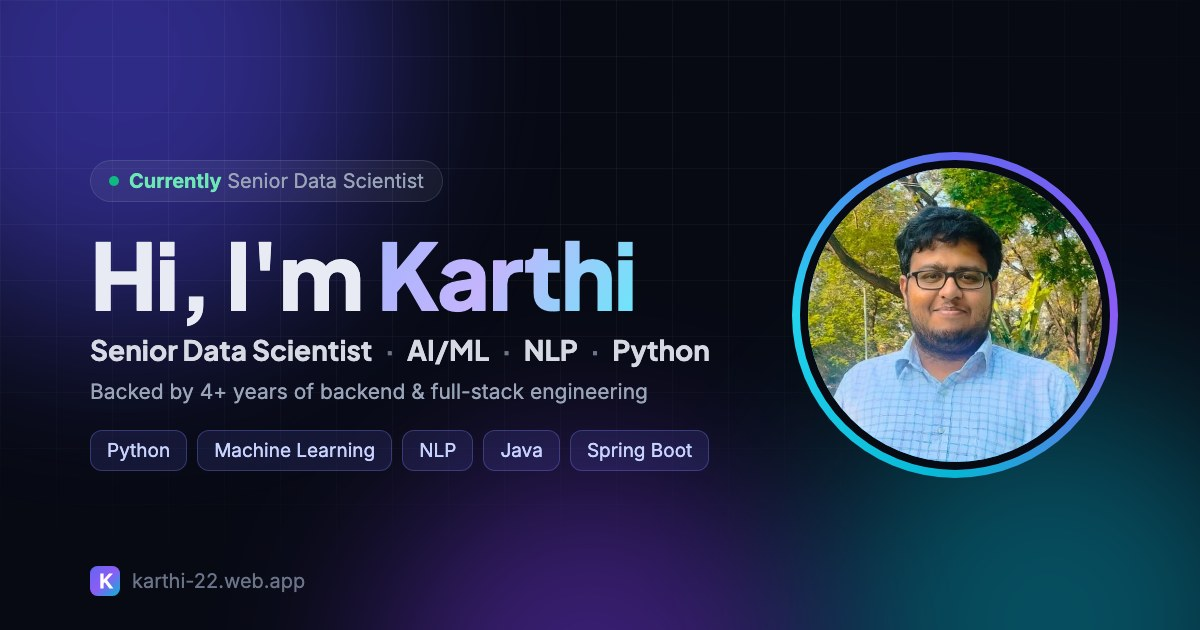
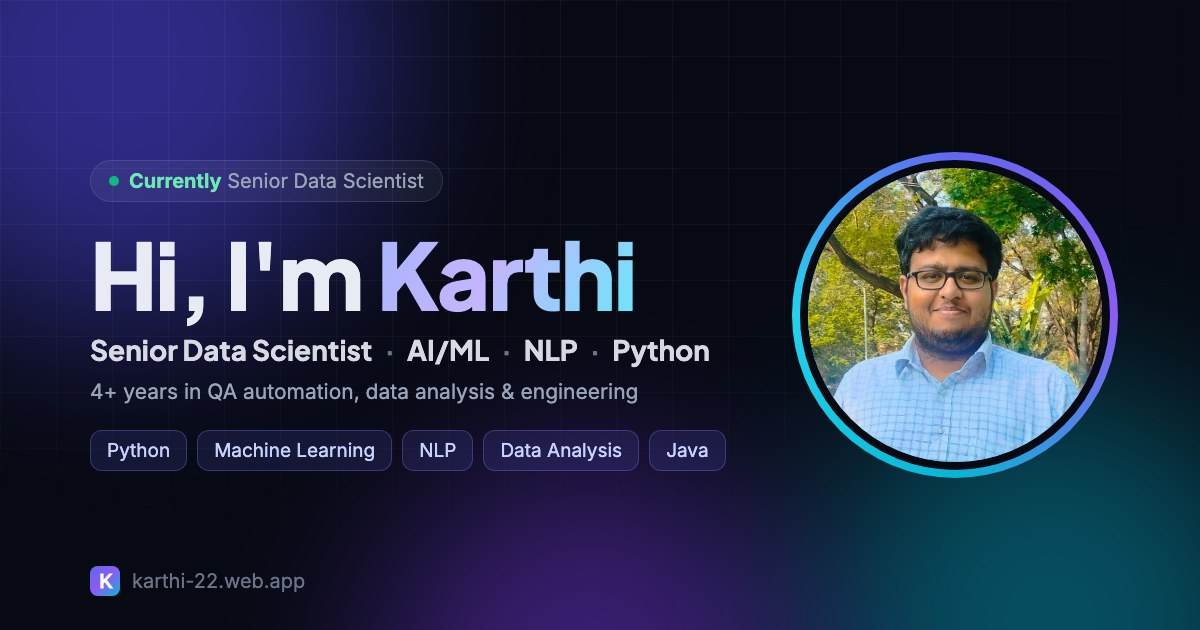
Rewrite About and Home around the real career path
The site claimed 4+ years of building web apps with Java/Spring Boot/
React/Angular; professionally the path was QA & test automation (Zoho),
then Data Analyst -> automation & backend engineering in Java and Python
(AquilaTest), now Senior Data Scientist. Full-stack work is from personal
projects and is now labelled as such.

- Home: accurate intro line; "My path" card (career steps) with
  "Built in my projects" highlights; stat boxes fill the row height
- About: paragraphs on Zoho and AquilaTest, projects framed as outside
  work, data + engineering strengths, updated "Why Hire Me?"
- Meta description, link-preview text and image, structured data,
  README updated to match

Changed region(s): [[0.0617, 0.6032, 0.555, 0.6333], [0.4008, 0.6635, 0.6167, 0.754]]

diff --git a/src/pages/Home.tsx b/src/pages/Home.tsx
@@ -13,6 +13,23 @@ import { skills } from "../data/SkillsData.ts";
 import { CONTACT } from "../data/ContactData.ts";
 import { projectSlug } from "../utils/ProjectUtils.ts";
 
+// career summary (details are on the Experience page)
+const CAREER_PATH: { period: string; title: string; detail: string; current?: boolean }[] = [
+  { period: "Jun 2026 – now", title: "Senior Data Scientist", detail: "AI/ML", current: true },
+  { period: "2024 – 2026", title: "AquilaTest: Data Analyst → Automation & Backend Developer", detail: "Data insights, Java & Python automation, framework re-architecture" },
+  { period: "2020 – 2023", title: "Zoho: QA Engineer (Member Technical Staff)", detail: "API & UI testing, automated test cases" },
+];
+
+// what my personal projects cover (see the Projects page)
+const PROJECT_HIGHLIGHTS: string[] = [
+  "JWT auth & role-based access",
+  "Microservices",
+  "WebSockets",
+  "Razorpay payments",
+  "Docker",
+  "NLP with IBM Watson",
+];
+
 // shown as separate items so a line only ever breaks between them
 const ROLES: string[] = ["Senior Data Scientist", "AI/ML", "NLP", "Python"];
 
@@ -83,8 +100,8 @@ function Home(): ReactElement {
             variants={fadeUp}
             className="mt-4 max-w-xl text-base md:text-lg text-muted font-sans font-normal text-balance"
           >
-            Working on AI/ML as a Senior Data Scientist, backed by 4+ years of backend and full-stack engineering
-            with Java, Spring Boot, React and PostgreSQL.
+            Working on AI/ML as a Senior Data Scientist, after 4+ years in QA and test automation, data analysis,
+            and Java &amp; Python automation and backend engineering.
           </motion.p>
 
           <motion.div variants={fadeUp} className="mt-6 flex flex-wrap justify-center lg:justify-start gap-2">
@@ -183,25 +200,31 @@ function Home(): ReactElement {
           transition={{ duration: 0.5 }}
           className="glass card-hover p-6 md:p-8"
         >
-          <h2 className="font-display text-lg md:text-xl font-semibold">
-            Engineering background: production-style applications with
-          </h2>
-          <ul className="mt-5 space-y-3">
-            {[
-              "JWT Authentication & Role-Based Access",
-              "Microservices Architecture",
-              "WebSockets (Real-time apps)",
-              "Payment Integration (Razorpay)",
-              "Docker-based Deployment",
-            ].map((point: string) => (
-              <li key={point} className="flex items-center gap-3 text-muted">
-                <span className="grid place-items-center size-7 shrink-0 rounded-lg bg-indigo-500/10 text-indigo-500 dark:text-indigo-400">
-                  <ArrowRight size={15} />
-                </span>
-                <span>{point}</span>
+          <h2 className="font-display text-lg md:text-xl font-semibold">My path</h2>
+          <ol className="mt-5 relative flex flex-col gap-5 before:absolute before:left-[0.6rem] before:top-2 before:bottom-2 before:w-px before:bg-line">
+            {CAREER_PATH.map((step) => (
+              <li key={step.period} className="relative flex gap-4">
+                <span
+                  className={`relative z-10 mt-1.5 size-[1.2rem] shrink-0 rounded-full ring-4 ring-bg ${step.current ? "bg-brand" : "bg-fg/15"}`}
+                  aria-hidden="true"
+                />
+                <div className="flex flex-col gap-0.5">
+                  <span className="text-xs font-semibold text-subtle tabular-nums">{step.period}</span>
+                  <span className="font-semibold text-fg">{step.title}</span>
+                  <span className="text-sm text-muted">{step.detail}</span>
+                </div>
               </li>
             ))}
-          </ul>
+          </ol>
+
+          <div className="mt-6 pt-5 border-t border-line">
+            <h3 className="text-sm font-semibold text-fg">Built in my projects</h3>
+            <ul className="mt-3 flex flex-wrap gap-2">
+              {PROJECT_HIGHLIGHTS.map((item: string) => (
+                <li key={item} className="chip">{item}</li>
+              ))}
+            </ul>
+          </div>
         </motion.div>
 
         {/* stats: count up when scrolled into view */}

diff --git a/src/pages/About.tsx b/src/pages/About.tsx
@@ -22,14 +22,24 @@ function About(): ReactElement {
 
         <motion.div {...reveal} className="glass p-6 md:p-10 max-w-4xl mx-auto w-full text-sm md:text-lg leading-relaxed text-muted">
           <p className="mb-4">
-            I am a Senior Data Scientist working in AI/ML, with 4+ years of experience building scalable and secure web applications using Java, Spring Boot, React, Angular, and PostgreSQL. That engineering background helps me take AI/ML work from experiments to production-ready software.
+            I am a Senior Data Scientist working on AI/ML, with 4+ years of experience across software quality, data and
+            engineering. That mix helps me take AI/ML work from data and experiments to reliable, production-ready software.
+          </p>
+          <p className="mb-4">
+            I started my career at <span className="font-medium text-fg">Zoho Corporation</span> as a QA engineer, testing the
+            ManageEngine M365 Manager Plus product end to end, both its APIs and its UI, and writing automated tests that
+            reduced manual testing effort. That is where I learned to care about quality and to work closely with developers on
+            root causes.
           </p>
           <p className="mb-6">
-            I have hands-on experience designing REST APIs, implementing JWT-based authentication, and developing microservices architectures. I enjoy solving real-world problems by building production-style applications that focus on performance, security, and clean architecture.
+            At <span className="font-medium text-fg">AquilaTest</span>, a startup, I began as a Data Analyst and moved into
+            software development and automation: I designed end-to-end automation solutions in Java and Python, re-architected
+            the automation framework for scalability and maintainability, and turned data insights into working software
+            together with cross-functional teams.
           </p>
           <div className="mb-6">
             <span className="font-medium text-fg">
-              I have built and deployed multiple full stack projects including:
+              Outside work, I build and deploy full-stack projects with Spring Boot, React and PostgreSQL, including:
             </span>
             <ul className="mt-4 grid gap-3 sm:grid-cols-2 text-sm md:text-base">
               {[
@@ -50,7 +60,8 @@ function About(): ReactElement {
             </ul>
           </div>
           <p className="mb-4">
-            My strengths include backend development, API design, system thinking, and integrating frontend with backend services efficiently.
+            My strengths are connecting data with engineering: analysing data and turning it into working software, writing
+            well-tested code, designing APIs, and automating processes with Python and Java.
           </p>
           <p>
             Since June 2026, I have been working as a Senior Data Scientist, focusing on AI/ML. I keep growing through hands-on projects, such as an NLP emotion-detection app built with IBM Watson, and certifications like DeepLearning.AI&apos;s Agent Skills with Anthropic.
@@ -65,9 +76,9 @@ function About(): ReactElement {
         <ul className="grid gap-5 sm:grid-cols-2 lg:grid-cols-4">
           {[
             "AI/ML and NLP work as a Senior Data Scientist",
-            "Strong backend fundamentals with real project experience",
-            "Ability to build end-to-end applications, from data to production",
-            "Quick learner with consistent hands-on development",
+            "Data background: from Data Analyst to Data Scientist",
+            "Quality mindset from QA and test automation at Zoho",
+            "Python and Java engineering, from data to production",
           ].map((item: string, index: number) => (
             <motion.li
               key={item}

diff --git a/index.html b/index.html
@@ -4,7 +4,7 @@
     <meta charset="UTF-8" />
     <meta name="viewport" content="width=device-width, initial-scale=1.0" />
     <title>Karthi – Senior Data Scientist | AI/ML, NLP, Python</title>
-    <meta name="description" content="Karthi – Senior Data Scientist working in AI/ML and NLP, with 4+ years of backend and full-stack engineering experience in Python, Java, Spring Boot and React." />
+    <meta name="description" content="Karthi – Senior Data Scientist working on AI/ML and NLP, with 4+ years across QA and test automation, data analysis, and Java and Python engineering." />
     <meta name="author" content="Karthi" />
     <link rel="canonical" href="https://karthi-22.web.app/" />
 
@@ -19,7 +19,7 @@
     <meta property="og:site_name" content="Karthi" />
     <meta property="og:url" content="https://karthi-22.web.app/" />
     <meta property="og:title" content="Karthi – Senior Data Scientist" />
-    <meta property="og:description" content="Senior Data Scientist working in AI/ML and NLP, with 4+ years of backend and full-stack engineering." />
+    <meta property="og:description" content="Senior Data Scientist working on AI/ML and NLP, after 4+ years in QA automation, data analysis and Java & Python engineering." />
     <meta property="og:image" content="https://karthi-22.web.app/og-image.jpg" />
     <meta property="og:image:width" content="1200" />
     <meta property="og:image:height" content="630" />
@@ -28,7 +28,7 @@
     <!-- X / Twitter -->
     <meta name="twitter:card" content="summary_large_image" />
     <meta name="twitter:title" content="Karthi – Senior Data Scientist" />
-    <meta name="twitter:description" content="Senior Data Scientist working in AI/ML and NLP, with 4+ years of backend and full-stack engineering." />
+    <meta name="twitter:description" content="Senior Data Scientist working on AI/ML and NLP, after 4+ years in QA automation, data analysis and Java & Python engineering." />
     <meta name="twitter:image" content="https://karthi-22.web.app/og-image.jpg" />
 
     <!-- structured data for search engines -->
@@ -40,7 +40,7 @@
         "url": "https://karthi-22.web.app/",
         "image": "https://karthi-22.web.app/og-image.jpg",
         "jobTitle": "Senior Data Scientist",
-        "knowsAbout": ["Machine Learning", "Natural Language Processing", "Python", "Java", "Spring Boot", "React"],
+        "knowsAbout": ["Machine Learning", "Natural Language Processing", "Data Analysis", "Python", "Java", "Test Automation"],
         "sameAs": [
           "https://github.com/karthi-mr",
           "https://www.linkedin.com/in/karthi-mr"

diff --git a/src/components/StatCounter.tsx b/src/components/StatCounter.tsx
@@ -21,7 +21,7 @@ function StatCounter({ value, suffix = "", label }: StatCounterProps): ReactElem
   }, [inView, reduceMotion, value]);
 
   return (
-    <div ref={ref} className="glass card-hover p-5 md:p-6 flex flex-col gap-1">
+    <div ref={ref} className="glass card-hover h-full p-5 md:p-6 flex flex-col justify-center gap-1">
       <span className="font-display text-4xl md:text-5xl font-extrabold tracking-tight text-gradient tabular-nums pb-1">
         {/* screen readers get the final number right away */}
         <span aria-hidden="true">{shown}{suffix}</span>

diff --git a/README.md b/README.md
@@ -2,7 +2,7 @@
 
 **Demo URL: https://karthi-22.web.app**
 
-Personal portfolio of Karthi – Senior Data Scientist (AI/ML), with a background in backend and full-stack engineering.
+Personal portfolio of Karthi – Senior Data Scientist (AI/ML), with a background in QA and test automation, data analysis, and Java & Python engineering.
 
 ### Features
 - **Light & dark theme** – follows the system theme by default; the navbar toggle switches System → Light → Dark and remembers the choice
